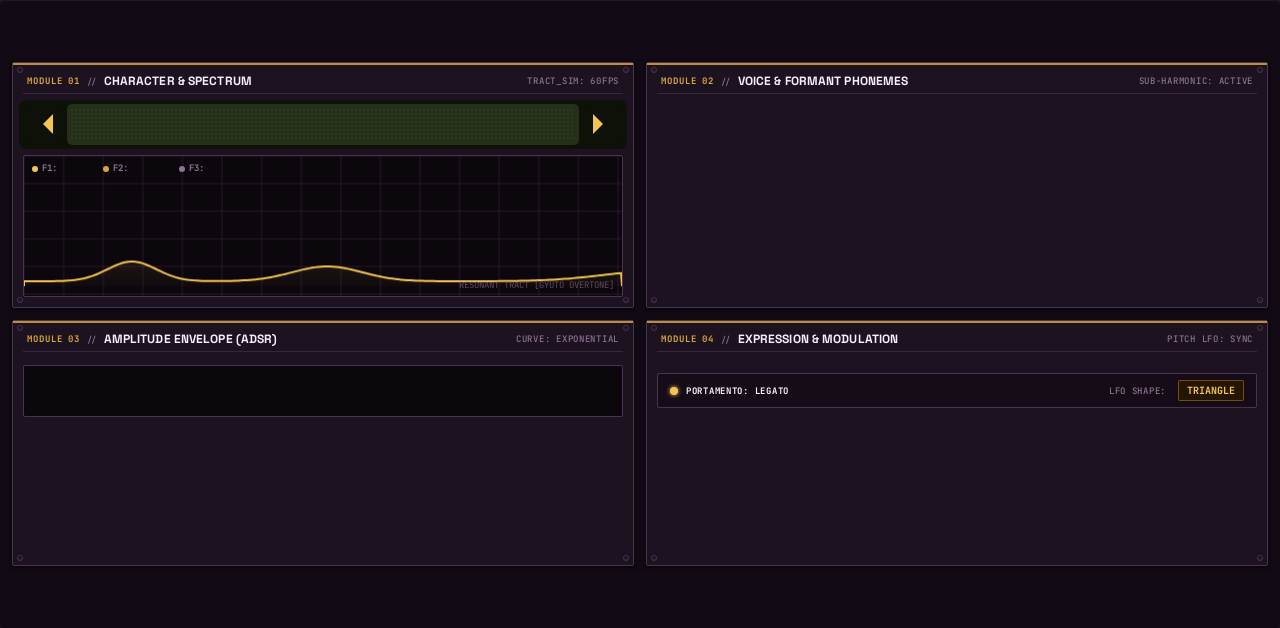
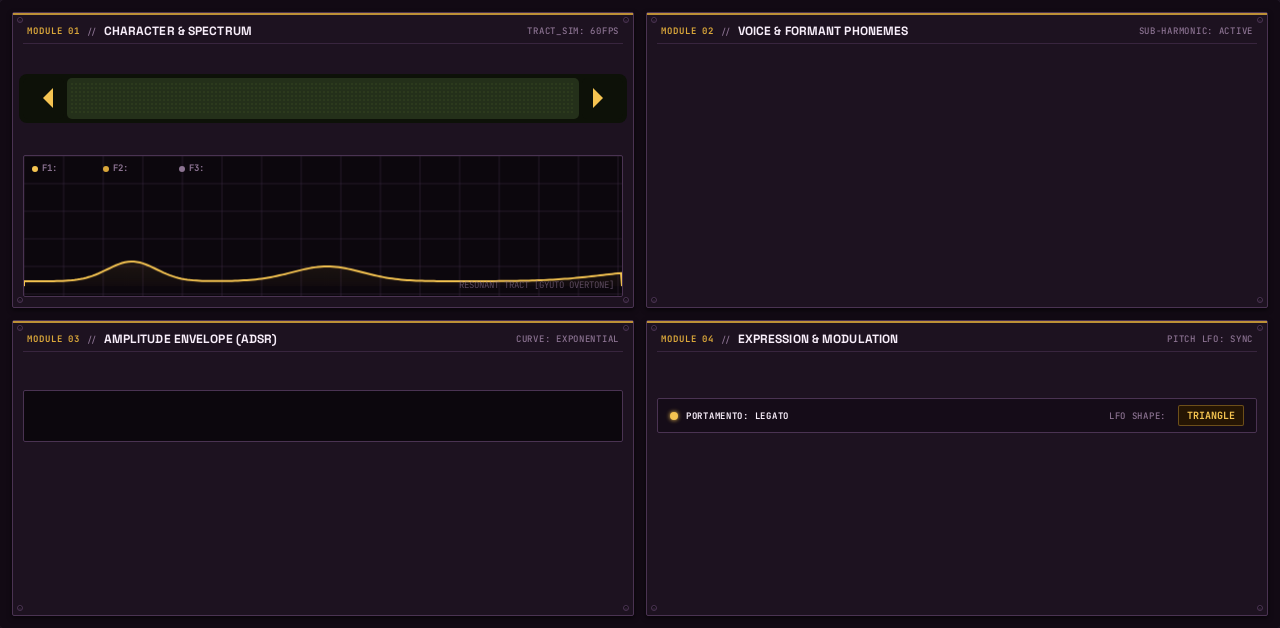
30 screens fill the plugin area (no empty bands above and below)
Rebuilt with the converter's `fill`: 303 (Open303), Aphex, Denis, Elements, Grids, GrooveBank, Hank,
Helm, Hera, Hush One, LibPO32, Marbles (SETUP only), MazeLite, MIDI Player, MonkSynth, Moog
(RaffoSynth: its frame centred), Mr Drums, Mr Hyde, Noisemaker, OB-Xd, PixelWalkers, Plaits, Rampage
(Dual Slope), Rings, Rings FX, SuperArp, Tablor, Verglas, Warps, Wurl. Same controls, parameters and
Q-Link order; only positions moved. Moog's and Noisemaker's hand edits (FILTER switch, BANK, the
shorter scope, design QA moves) carried over. Helm's switch captions now show the parameters' names.

Builds PASSED (offline test), check_skin OK for all 30, screenshots refreshed from the engine's
state. The .so files are the committed ones (only the screens changed). Not on a device yet.

diff --git a/README.md b/README.md
@@ -61,6 +61,9 @@ Use one or the other for this plugin: both register the same plugin (same uid), 
 - New touchscreen page from its Google Stitch design (`design/`): the design's artwork as the background, its own knob art, live names and values, and controls the design left out added in its style (see RESKINNING.md).
 - Presets in MPC's PRESET menu (2026-10-03): its 12 singer presets are VST programs (vst.json `programs`), so the PRESET
   dropdown in the plugin header, also on the arrangement screen, lists and loads them.
+- **Full-height screen (2026-10-18)**: the panels fill MPC's 1280 × 628 plugin area. The Stitch conversion used to
+  centre the design at the height it had under its own header and footer (MPC draws its own), which left an empty
+  band above and below.
 
 ## Files
 
